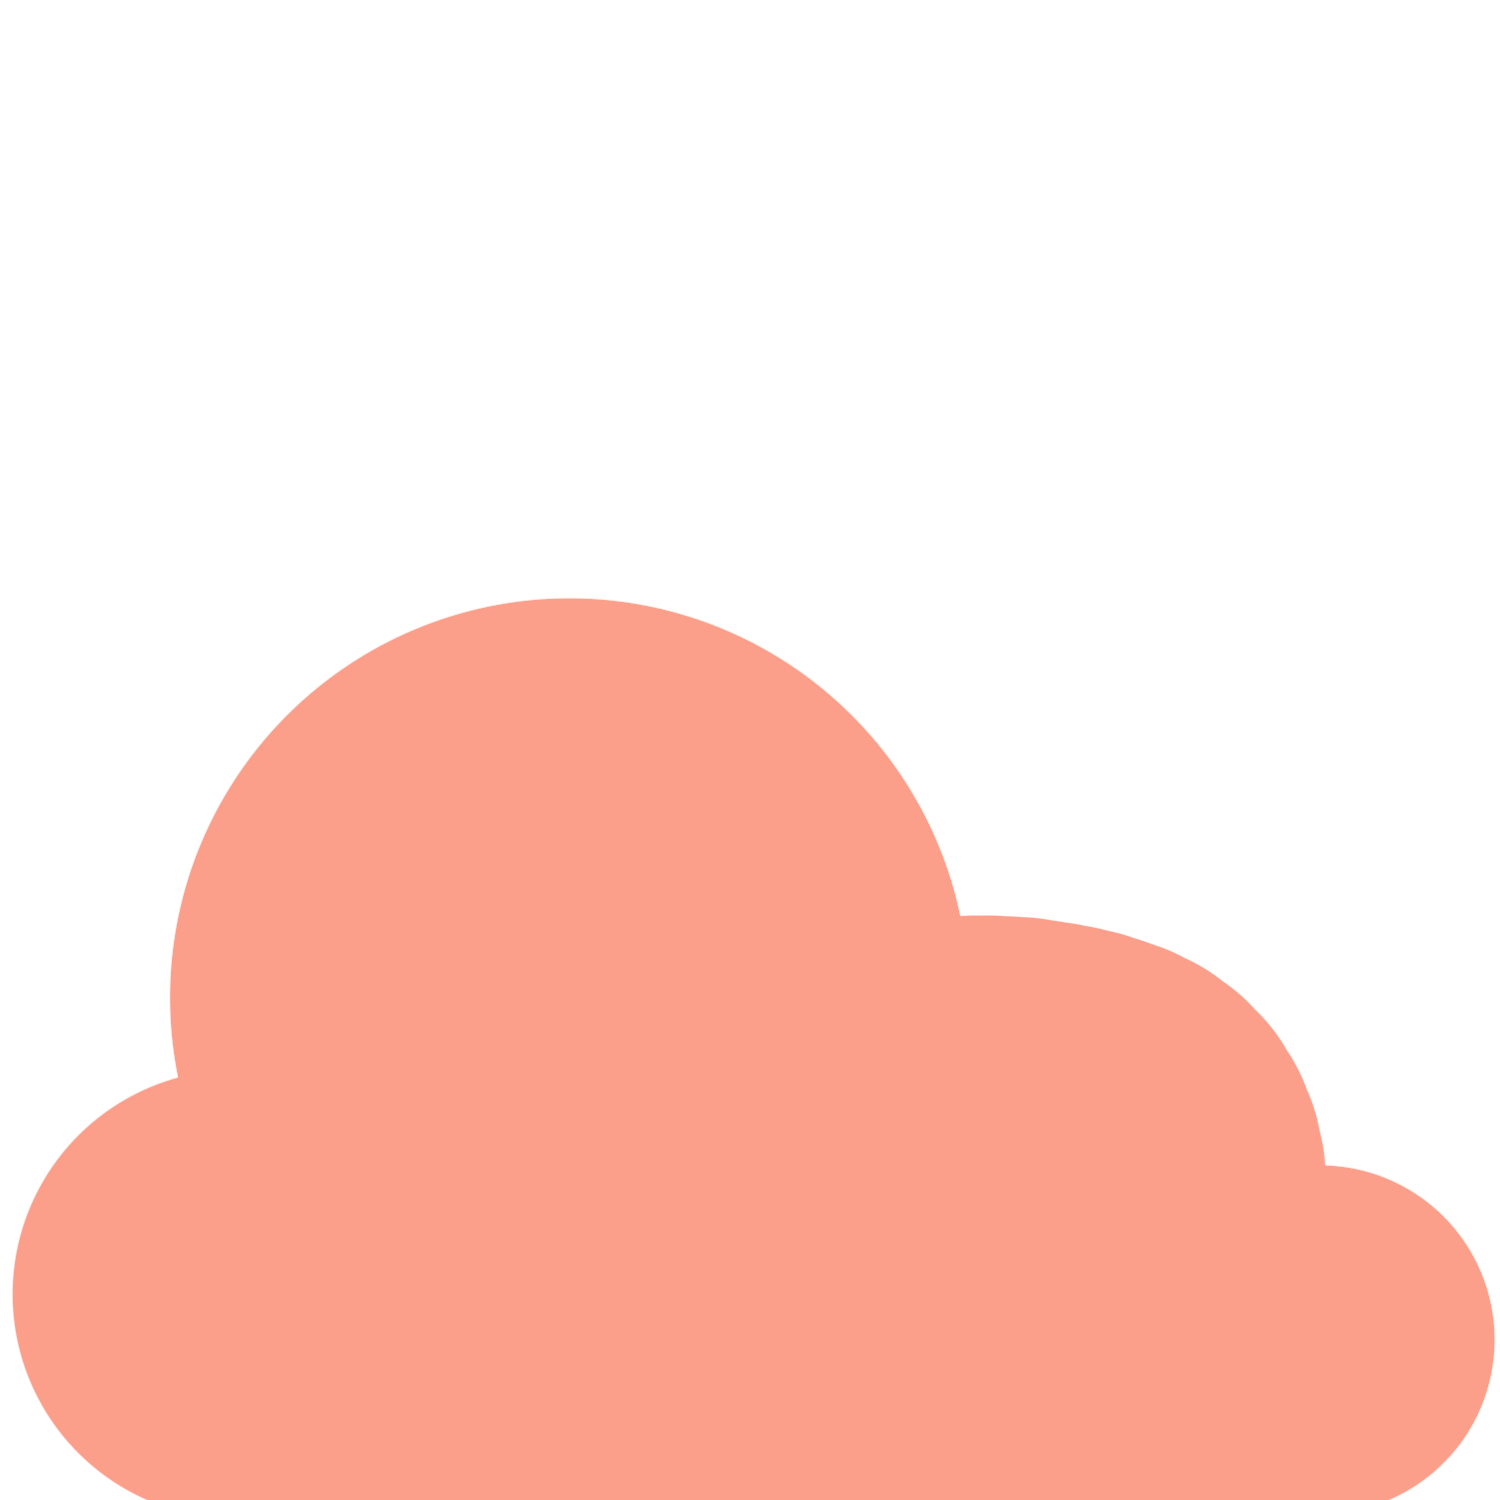
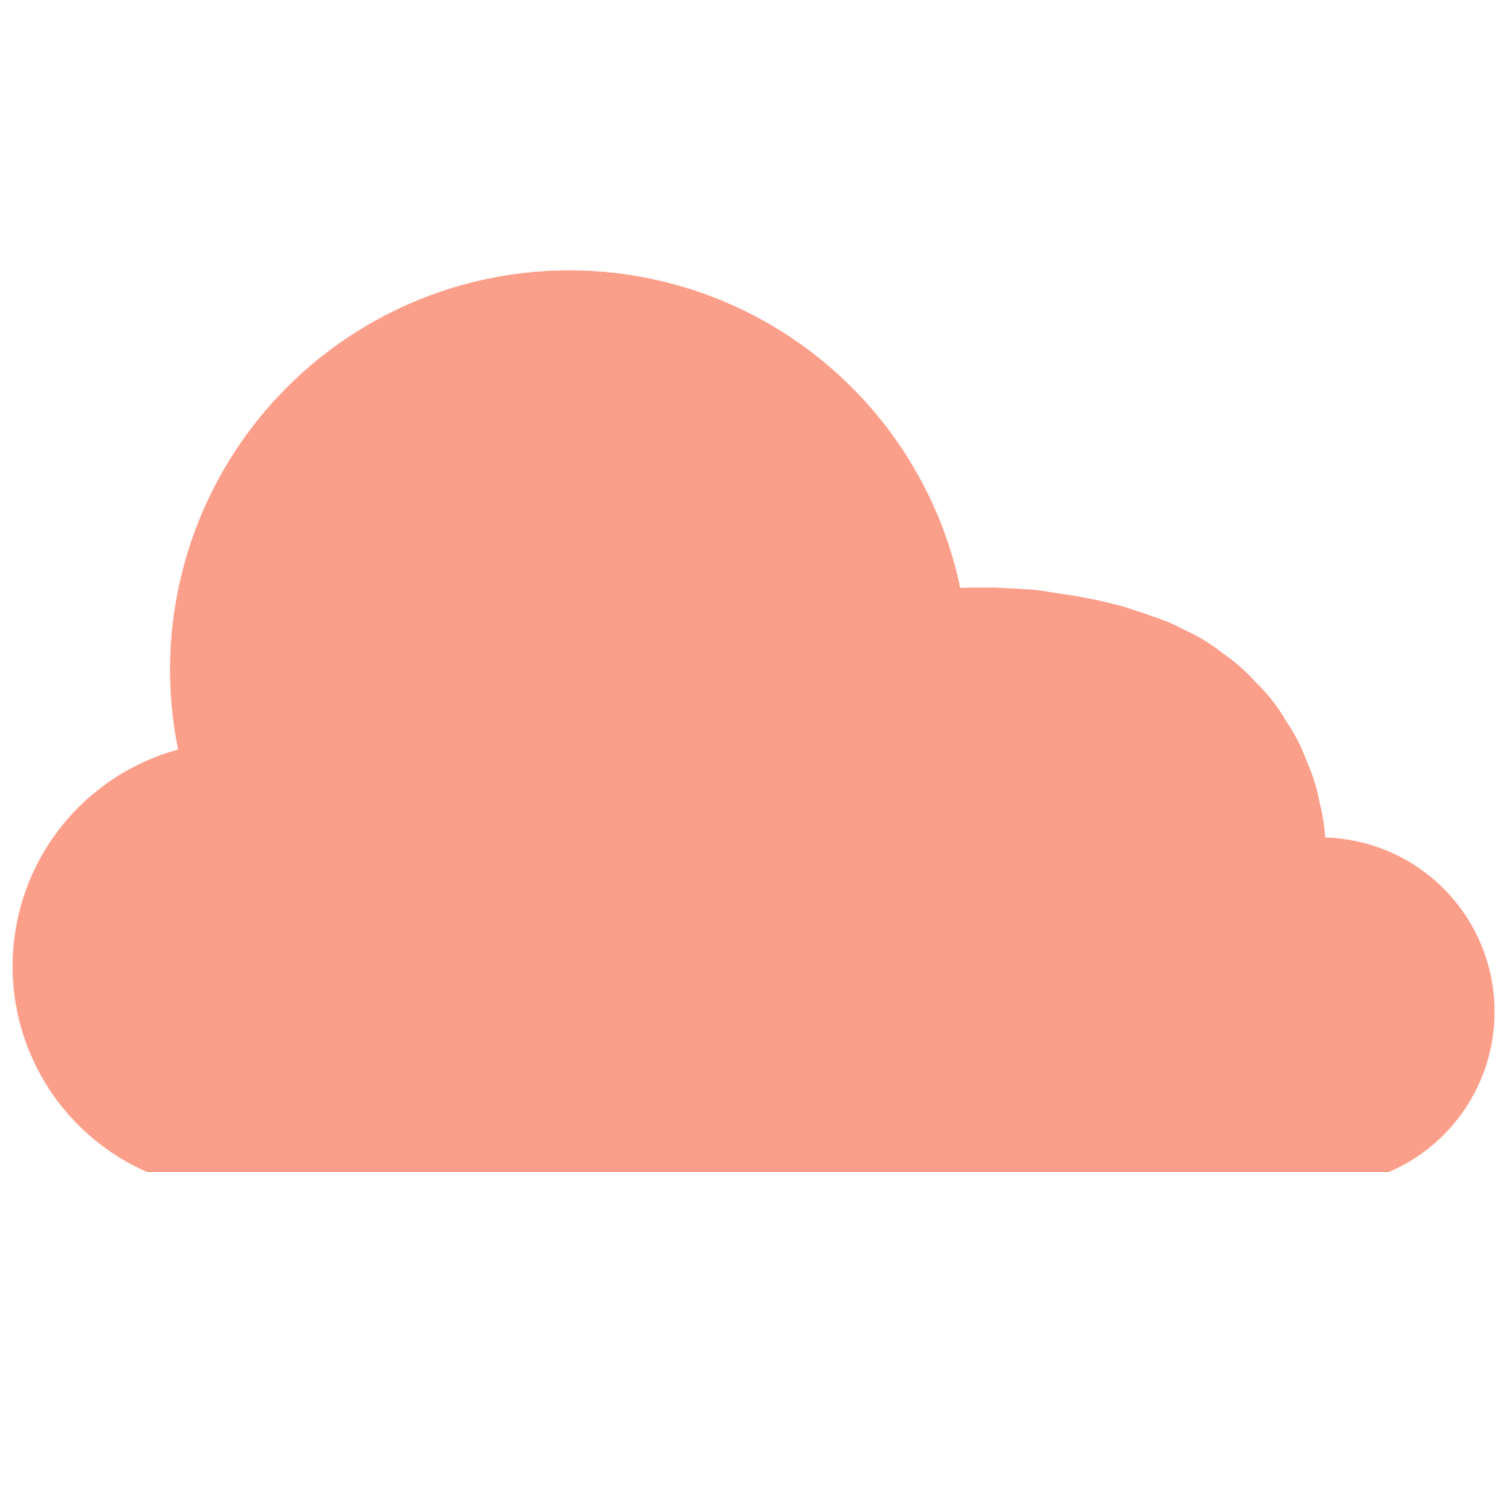
made introduction section

diff --git a/index.html b/index.html
@@ -5,7 +5,9 @@
   <title>Jo's About Me</title>
   <meta charset="utf-8" />
   <meta name="viewport" content="width=device-width, initial-scale=1" />
-  <link rel="stylesheet" href="style.css" />
+  <link href='https://fonts.googleapis.com/css?family=Montserrat' rel='stylesheet'>
+  <link rel="stylesheet" href="header.css" />
+  <link rel="stylesheet" href="intro.css" />
 
 </head>
 
@@ -19,13 +21,108 @@
       <span style="--i:4;" id="slide1"><img src="assets/pink_cloud.png" alt=""></span>
     </div>
 
-    Welcome
+    <div class="welcome_wrapper">
+      <div class="text welcome_text">
+        <h1>Welcome</h1>
+        Welcome to my page, I'm Jo.<br>A computer scientist at UNSW who likes to
+        dabble in security and other artistic things.~<br><br>
+        <div style="font-size: 15px">Feel free to pop popping cat! = w=</div>
+      </div>
+    </div>
+
+
     <img src="assets/popping_cat1.png" alt="" class="popping_cat" id="imgClickAndChange">
   </div>
 </div>
 
-<div>hello</div>
+<div class="section">
+  <div class="head">Introduction</div>
+  <div class="about_me_wrapper">
+    <div class="about_me_text align_right">
+      <h1>Age:</h1>20<br><br>
+      <h1>Height:</h1>180<br><br>
+      <h1>Degree:</h1>3rd Yr Computer Science<br><br>
+      <h1>Major:</h1>Security Engineering<br><br>
 
-<script src="script.js"></script>
+    </div>
+    <div class="about_me_middle">
+      <img src="assets/chibi.gif" class="about_me_img animate_bop" id="gif">
+    </div>
+    <div class="about_me_text align_left">
+      <h1>Personality:</h1>ISTP-T<br><br>
+      <h1>Pronouns:</h1>He/Him<br><br>
+      <h1>Hobbies:</h1>Drawing, Gaming, Crafting<br><br>
+      <h1>Fav Colour:</h1>Blue
+    </div>
+    <!--
+    <div class="abt_txt_res_wrapper">
+      <div class="abt_txt_res">
+        <div class="category">
+          <div class="align_left">
+            <h1>Age:</h1>
+          </div>
+          <div class="align_right">20</div>
+        </div>
+
+        <div class="category">
+          <div class="align_left">
+            <h1>Height:</h1>
+          </div>
+          <div class="align_right">180</div>
+        </div>
+
+        <div class="category">
+          <div class="align_left">
+            <h1>Degree:</h1>
+          </div>
+          <div class="align_right">3rd Yr Computer Science</div>
+        </div>
+
+        <div class="category">
+          <div class="align_left">
+            <h1>Major:</h1>
+          </div>
+          <div class="align_right">Security Engineering</div>
+        </div>
+
+        <div class="category">
+          <div class="align_left">
+            <h1>Personality:</h1>
+          </div>
+          <div class="align_right">ISTP-T</div>
+        </div>
+
+        <div class="category">
+          <div class="align_left">
+            <h1>Pronouns:</h1>
+          </div>
+          <div class="align_right">He/Him</div>
+        </div>
+
+        <div class="category">
+          <div class="align_left">
+            <h1>Hobbies:</h1>
+          </div>
+          <div class="align_right">Drawing, Gaming, Crafting</div>
+        </div>
+
+        <div class="category">
+          <div class="align_left">
+            <h1>Fav Colour:</h1>
+          </div>
+          <div class="align_right">Blue</div>
+        </div>
+      </div>
+    </div>
+  </div>-->
+  </div>
+
+
+  <div class="section">
+    <div class="head">Fun Facts</div>
+    <div class="box"></div>
+  </div>
+
+  <script src="script.js"></script>
 
 </html>

diff --git a/intro.css b/intro.css
@@ -1,0 +1,185 @@
+.section {
+  background: #E2CCC6;
+  justify-content: center;
+  align-items: center;
+  width: 100vw;
+  display: flex;
+  flex-direction: column;
+  padding: 50px;
+}
+
+
+.box {
+  width: 80vw;
+  height: 600px;
+  text-align: center;
+  display: flex;
+  flex-direction: column;
+  justify-content: center;
+  align-items: center;
+  background-color: #9DC6CA;
+  border-radius: 50px;
+}
+
+.about_me_wrapper {
+  display: flex;
+  flex-direction: row;
+}
+
+.about_me_img {
+  max-width: 300px;
+  align-self: center;
+  justify-self: center;
+}
+
+.about_me_middle {
+  display: flex;
+  flex-direction: column;
+}
+
+.text {
+  font-size: 20px;
+  font-weight: 400;
+  text-align: center;
+  justify-content: center;
+
+}
+
+.about_me_text {
+  margin: 100px 50px;
+  font-size: 18px;
+  color: #077B88;
+}
+
+.about_me_text h1 {
+  font-size: 18px;
+  font-family: Montserrat, bold;
+  position: relative;
+  color: #eb8173;
+  overflow: hidden;
+  background: linear-gradient(to right, #077B88, #077B88 50%, #eb8173 50%);
+  background-clip: text;
+  -webkit-background-clip: text;
+  -webkit-text-fill-color: transparent;
+  background-size: 200% 100%;
+  background-position: 100%;
+  transition: background-position 275ms ease;
+}
+
+.about_me_text h1:hover {
+  background-position: 0 100%;
+  animation: bop_smaller 1s linear infinite;
+}
+
+.head {
+  font-size: 40px;
+  font-weight: 600;
+  text-align: center;
+  color: #077B88;
+  text-shadow: 4px 3px #9DC6CA;
+  font-family: Montserrat, bold;
+}
+
+.head:hover {
+  transform: translateY(-5px) scale(1.1);
+}
+
+.animate_bop {
+  animation: bop 3s linear infinite;
+}
+
+@keyframes bop {
+  0% {
+    transform: translatey(0px);
+  }
+
+  50% {
+    transform: translatey(-10px);
+  }
+
+  100% {
+    transform: translatey(0px);
+  }
+}
+
+@keyframes bop_smaller {
+  0% {
+    transform: translatey(0px);
+  }
+
+  50% {
+    transform: translatey(-2px);
+  }
+
+  100% {
+    transform: translatey(0px);
+  }
+}
+
+.align_left {
+  text-align: left;
+}
+
+.align_right {
+  text-align: right;
+}
+
+/* 
+@media (max-width: 1080px) {
+  .about_me_text {
+    display: none;
+  }
+
+  .about_me_wrapper {
+    flex-direction: column;
+  }
+
+  .about_me_img {
+    margin-bottom: -120px;
+  }
+
+  .abt_txt_res_wrapper {
+    display: block;
+  }
+
+}
+
+.abt_txt_res_wrapper {
+  display: none;
+  flex-direction: column;
+}
+
+.category {
+  width: 80vw;
+  max-width: 500px;
+  display: flex;
+  flex-direction: row;
+  justify-content: space-between;
+  padding: 3px 0px;
+}
+
+.abt_txt_res {
+  margin: 100px 50px;
+  font-size: 18px;
+  color: #077B88;
+}
+
+.abt_txt_res h1 {
+  font-size: 18px;
+  font-family: Montserrat, bold;
+  position: relative;
+  color: #eb8173;
+  overflow: hidden;
+  background: linear-gradient(to right, #077B88, #077B88 50%, #eb8173 50%);
+  background-clip: res;
+  -webkit-background-clip: text;
+  -webkit-text-fill-color: transparent;
+  background-size: 200% 100%;
+  background-position: 100%;
+  transition: background-position 275ms ease;
+}
+
+.abt_txt_res h1:hover {
+  background-position: 0 100%;
+  animation: bop_smaller 1s linear infinite;
+} */

diff --git a/header.css b/header.css
@@ -1,18 +1,8 @@
-@font-face {
-  font-family: "montserrat-italics";
-  src: url("assets/Montserrat-Italic-VariableFont_wght.ttf");
-}
-
-@font-face {
-  font-family: "montserrat";
-  src: url("assets/Montserrat-VariableFont_wght.ttf");
-}
-
 * {
   margin: 0;
   padding: 0;
   box-sizing: border-box;
-  font-family: "montserrat";
+  font-family: "Montserrat";
 }
 
 .background {
@@ -26,7 +16,7 @@
   overflow: hidden;
   display: flex;
   flex-direction: column;
-  padding-top: 15%;
+  padding-top: 13%;
 }
 
 .slider {
@@ -37,8 +27,6 @@
   animation: rotate 20s linear infinite;
   animation-play-state: running;
 }
-
-
 
 @keyframes rotate {
   0% {
@@ -101,6 +89,28 @@
     padding-top: 20%;
   }
 }
+
+.welcome_wrapper {
+  max-width: 500px;
+  width: 60vw;
+}
+
+.welcome_text {
+  line-height: 150%;
+  text-align: center;
+  color: #034E61;
+}
+
+.welcome_text h1 {
+  font-size: 40px;
+  font-weight: 600;
+  text-align: center;
+  color: #063541;
+  text-shadow: 4px 3px #E2CCC6;
+  font-family: Montserrat, bold;
+  padding: 10px 0px;
+}
+
 
 .popping_cat {
   max-width: 300px;

diff --git a/script.js b/script.js
@@ -1,3 +1,5 @@
+
+// popping cat
 const pop = document.querySelector('.popping_cat');
 
 pop.addEventListener('mousedown', () => {
@@ -11,3 +13,7 @@ pop.addEventListener('mouseup', () => {
     pop.src = "assets/popping_cat1.png";
   }
 });
+
+// no drag
+document.getElementById('imgClickAndChange').ondragstart = function () { return false; };
+document.getElementById('gif').ondragstart = function () { return false; };
